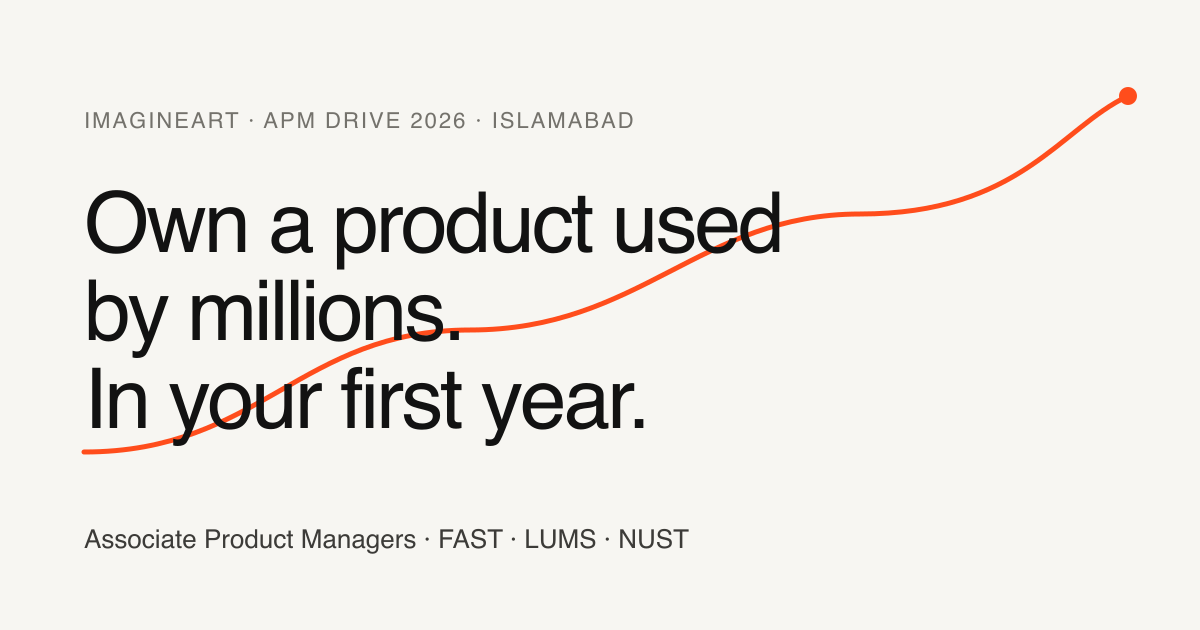
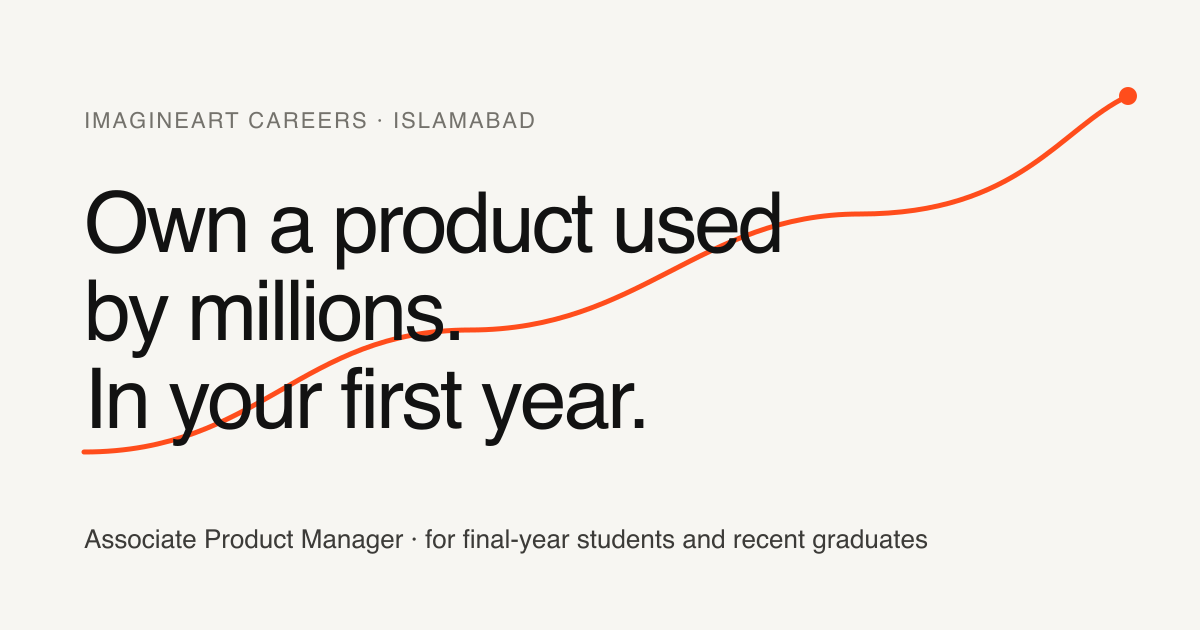
Remove decorative chips and internal hiring details from candidate copy
Drop the prompt pill, badges and campus pills. Remove target universities,
batch/drive wording, internal screeners, titles and team levels.

Changed region(s): [[0.3392, 0.8143, 0.7708, 0.8746], [0.2158, 0.181, 0.5242, 0.2111]]

diff --git a/lib/data/copy.ts b/lib/data/copy.ts
@@ -1,26 +1,25 @@
 /** All user-facing words for the page, in one place. Facts with sources live in facts.ts. */
 export const HERO = {
-  prompt: "an associate product manager at ImagineArt, first year",
   h1a: "Own a product used by millions.",
   h1b: "In your first year.",
-  sub: "ImagineArt is hiring a batch of Associate Product Managers in Islamabad. Fresh graduates and people up to a year out, from FAST, LUMS and NUST. You will own a surface, ship it to real users, and be judged on what happens next.",
-  primary: "Apply for the drive",
-  secondary: "How the drive works",
+  sub: "ImagineArt is hiring Associate Product Managers in Islamabad, for final-year students and recent graduates. You will own part of the product, ship it to real users, and be judged on what happens next.",
+  primary: "Apply now",
+  secondary: "How hiring works",
   imageAlt: "A frame generated with ImagineArt",
-  madeWith: "Made with ImagineArt",
+  madeWith: "Made with ImagineArt, from the imagine.art homepage.",
 };
 
 export const SHIP = {
   eyebrow: "What you'll ship",
   title: "Eight products, one workspace. Pick the one you want to own.",
-  body: "Every tile below is a live product with real users on the other side, and every frame on it was made with ImagineArt. An APM here is handed a piece of one of them, not a slide deck about it.",
+  body: "Every tile below is a live product with real users on the other side, and every frame on it was made with ImagineArt. You will be handed a piece of one of them, not a slide deck about it.",
 };
 
 export const LADDER = [
   { title: "Associate Product Manager", own: "A surface or a feature, end to end. You write the spec, the copy and the launch note. You ship weekly and you read what happened.", years: "Year 1" },
   { title: "Product Manager", own: "A product line with a roadmap, a small team of engineers and a designer who sits next to you.", years: "Years 2–3" },
   { title: "Senior Product Manager", own: "A business line with a number attached to it, and more than one squad shipping against it.", years: "Years 3–5" },
-  { title: "Group Product Manager", own: "A whole product area across ImagineArt Web. You hire and grow the PMs who own the lines.", years: "Year 5+" },
+  { title: "Group Product Manager", own: "A whole product area. You hire and grow the PMs who own the lines.", years: "Year 5+" },
 ];
 
 export const SCOPE = [
@@ -40,37 +39,21 @@ export const HOW = {
     { n: "03", t: "Ship, then learn.", b: "Small releases, real users, fast iteration. The product changes every week and you will be one of the reasons." },
     { n: "04", t: "Design sits next to you.", b: "PMs and designers pair from the first sketch. No hand-offs, no ticket queues between you." },
     { n: "05", t: "Numbers are the story.", b: "Activation, retention, revenue. You will read them, and you will be asked what you did about them." },
-    { n: "06", t: "No layers.", b: "You talk to the Group PM and the founders directly. If something needs deciding, it gets decided." },
+    { n: "06", t: "No layers.", b: "You talk to product leadership and the founders directly. If something needs deciding, it gets decided." },
   ],
 };
 
 export const TEAM = {
   eyebrow: "Who you'll work with",
-  title: "The product team.",
-  body: "You will work directly with the PMs and designers below, in the same room. The names are real; the titles are current.",
+  title: "The product and design team.",
+  body: "You will work directly with these people, in the same room.",
   groups: [
     { label: "Product", people: [
-      { name: "Saad Ahmed", role: "Group Product Manager, ImagineArt Web" },
-      { name: "Ali Ayub Khan", role: "Senior Product Manager" },
-      { name: "Muhammad Usama", role: "Product Manager, ImagineArt Web" },
-      { name: "Saif ur Rehman", role: "Product Manager, ImagineArt Web" },
-      { name: "Mehdi", role: "Product Growth" },
-    ]},
-    { label: "Associate PMs", people: [
-      { name: "Muhammad Muzammil", role: "Associate Product Manager" },
-      { name: "Ashad Qureshi", role: "Associate Product Manager" },
-      { name: "Raamiz Khan Niazi", role: "Associate Product Manager" },
-      { name: "Ahmed Hassan", role: "Associate Product Manager" },
-      { name: "Hussain Asjad Abbas", role: "Associate Product Manager" },
-      { name: "Taha Abid", role: "Assistant Product Manager" },
+      "Saad Ahmed", "Ali Ayub Khan", "Muhammad Usama", "Saif ur Rehman", "Mehdi",
+      "Muhammad Muzammil", "Ashad Qureshi", "Raamiz Khan Niazi", "Ahmed Hassan", "Hussain Asjad Abbas", "Taha Abid",
     ]},
     { label: "Design", people: [
-      { name: "Aizaz Ahmad", role: "Senior Product Designer" },
-      { name: "Hamza Jamal", role: "Product Designer" },
-      { name: "Tayyab Abbas", role: "Product Designer" },
-      { name: "Khadija Umer", role: "Product Designer" },
-      { name: "Syed Aman", role: "Product Designer" },
-      { name: "Faisal Khan", role: "Creative Director" },
+      "Aizaz Ahmad", "Hamza Jamal", "Tayyab Abbas", "Khadija Umer", "Syed Aman", "Faisal Khan",
     ]},
   ],
 };
@@ -106,42 +89,38 @@ export const FIT = {
 };
 
 export const PROCESS = {
-  eyebrow: "How the drive works",
+  eyebrow: "How hiring works",
   title: "Six steps. No tricks.",
   sla: "You hear back within two weeks of applying, either way.",
   steps: [
     { n: "01", t: "Apply", d: "Five minutes", b: "One form, one link to something you made. No cover letter." },
-    { n: "02", t: "Campus drive", d: "On your campus", b: "FAST Lahore, Islamabad and Karachi, LUMS, and NUST. Meet the team, see the product, ask anything." },
-    { n: "03", t: "Screen with current APMs", d: "30 minutes", b: "The people doing the job a year ahead of you. They ask the questions they wish they had been asked." },
+    { n: "02", t: "Meet us", d: "On campus or on a call", b: "Meet the team, see the product, ask anything." },
+    { n: "03", t: "First interview", d: "30 minutes", b: "A conversation with the product team about what you have built and why you made the choices you made." },
     { n: "04", t: "Product case day", d: "Half a day, in Islamabad", b: "A real problem from the product, worked with a designer at the table. We look at how you think, not how you present." },
-    { n: "05", t: "The room", d: "45 minutes", b: "A conversation with the Group PM and the founders. Come with opinions about ImagineArt." },
+    { n: "05", t: "Final conversation", d: "45 minutes", b: "With product leadership and the founders. Come with opinions about ImagineArt." },
     { n: "06", t: "Offer", d: "Within days", b: "Number, start date, and who you will sit next to." },
   ],
-  campuses: ["FAST Lahore", "FAST Islamabad", "FAST Karachi", "LUMS", "NUST"],
-  datesNote: "Campus dates are announced on this page first.",
+  datesNote: "Campus visit dates will be posted on this page.",
 };
 
 export const APPLY = {
   eyebrow: "Apply",
-  title: "Generate your application.",
-  body: "Fill the prompt. The only thing we read closely is the link.",
+  title: "Apply now.",
+  body: "Five fields and one link. The link is what we read most closely.",
   submit: "Submit application",
-  universities: ["FAST", "LUMS", "NUST", "Other"],
-  cities: ["Lahore", "Islamabad", "Karachi", "Other"],
   years: ["2025", "2026", "2027"],
   success: "Received. You will hear from us within two weeks.",
   failure: "Something went wrong on our side. Email your application to careers@imagine.art.",
 };
 
 export const FAQ = [
-  { q: "Who can apply?", a: "Final-year students and graduates up to one year out. The drive focuses on FAST, LUMS and NUST, but the form is open to anyone in Pakistan who has built something worth showing." },
+  { q: "Who can apply?", a: "Final-year students and graduates up to one year out, from any university, who have built something worth showing." },
   { q: "Is the role in person?", a: "Yes. The product team works from the Islamabad office. This is a job you do in the room." },
-  { q: "What does an Associate Product Manager actually do here?", a: "You are handed a surface of the product and you own it: the spec, the copy, the launch, the numbers afterwards. You work with a designer and engineers directly. There is no layer between you and the users." },
+  { q: "What does the job actually look like?", a: "You are handed a surface of the product and you own it: the spec, the copy, the launch, the numbers afterwards. You work with a designer and engineers directly. There is no layer between you and the users." },
   { q: "What is the compensation?", a: "Great for Islamabad, and we tell you the number in the first conversation rather than at the end." },
-  { q: "What is the San Francisco part?", a: "Vyro has an office in San Francisco. The APMs who ship the most get the chance to work from it and to attend international events with the team. It is earned." },
-  { q: "How long does the process take?", a: "You hear back within two weeks of applying. From campus drive to offer is usually a few weeks." },
+  { q: "What is the San Francisco part?", a: "Vyro has an office in San Francisco. The people who ship the most get the chance to work from it and to attend international events with the team. It is earned." },
+  { q: "How long does the process take?", a: "You hear back within two weeks of applying. From first conversation to offer is usually a few weeks." },
   { q: "Do I need a computer science degree?", a: "No. You need to have built or shipped something, and to be able to explain why you made the choices you made." },
   { q: "Can I use AI to prepare my application?", a: "Yes, and we will ask you how. We build AI products; we would be surprised if you didn't." },
-  { q: "I am not from FAST, LUMS or NUST. Should I still apply?", a: "Yes. The campus drives are where we go looking; the form is open to everyone." },
-  { q: "What happens with my application data?", a: "It is read by the product team for this drive only and is not shared outside the company." },
+  { q: "What happens with my application data?", a: "It is read by the product team for this hiring round only and is not shared outside the company." },
 ];

diff --git a/components/sections/ApplyForm.tsx b/components/sections/ApplyForm.tsx
@@ -37,29 +37,23 @@ export function ApplyForm() {
 
           {state === "ok" ? (
             <div className="rounded-[20px] bg-white border border-line p-8 md:p-10">
-              <div className="chip"><span className="chip-dot" aria-hidden="true" />done</div>
-              <p className="t-h3 mt-5 text-ink m-0">{APPLY.success}</p>
+              <p className="t-h3 text-ink m-0">{APPLY.success}</p>
             </div>
           ) : (
             <form onSubmit={onSubmit} className="rounded-[20px] bg-paper-2/60 border border-line p-5 md:p-8 flex flex-col gap-5">
-              <div className="chip w-max"><span className="chip-dot" aria-hidden="true" />prompt / application</div>
               <div className="grid sm:grid-cols-2 gap-4">
                 <div><label className={label} htmlFor="name">Name</label><input id="name" name="name" required className={field} placeholder="Your name" {...NO_PWD} /></div>
-                <div><label className={label} htmlFor="email">Email</label><input id="email" name="email" type="email" required className={field} placeholder="you@university.edu.pk" {...NO_PWD} /></div>
+                <div><label className={label} htmlFor="email">Email</label><input id="email" name="email" type="email" required className={field} placeholder="you@example.com" {...NO_PWD} /></div>
               </div>
               <div className="grid sm:grid-cols-3 gap-4">
                 <div><label className={label} htmlFor="university">University</label>
-                  <select id="university" name="university" required className={field} defaultValue="">
-                    <option value="" disabled>Choose</option>{APPLY.universities.map((u) => <option key={u} value={u}>{u}</option>)}
-                  </select></div>
+                  <input id="university" name="university" required className={field} placeholder="University" {...NO_PWD} /></div>
                 <div><label className={label} htmlFor="graduation">Graduation</label>
                   <select id="graduation" name="graduation" required className={field} defaultValue="">
                     <option value="" disabled>Year</option>{APPLY.years.map((y) => <option key={y} value={y}>{y}</option>)}
                   </select></div>
                 <div><label className={label} htmlFor="city">City</label>
-                  <select id="city" name="city" required className={field} defaultValue="">
-                    <option value="" disabled>Choose</option>{APPLY.cities.map((c) => <option key={c} value={c}>{c}</option>)}
-                  </select></div>
+                  <input id="city" name="city" required className={field} placeholder="City" {...NO_PWD} /></div>
               </div>
               <div><label className={label} htmlFor="link">A link to something you built or made</label><input id="link" name="link" type="url" required className={field} placeholder="https://" {...NO_PWD} /></div>
               <div><label className={label} htmlFor="shipped">One thing you shipped, in two sentences</label>

diff --git a/components/sections/Hero.tsx b/components/sections/Hero.tsx
@@ -1,24 +1,13 @@
 "use client";
-import { useState } from "react";
-import { Typewriter } from "@/components/motion/Typewriter";
 import { GenerateReveal } from "@/components/motion/GenerateReveal";
 import { HERO } from "@/lib/data/copy";
 import { SITE } from "@/lib/site";
 
 export function Hero({ image, video }: { image: string; video?: string }) {
-  const [typed, setTyped] = useState(false);
   return (
     <section id="top" className="relative z-[1] pt-[132px] md:pt-[168px] pb-10 md:pb-16">
       <div className="container-page">
-        <div className="chip" aria-label="Prompt">
-          <span className="chip-dot" aria-hidden="true" />
-          <span className="normal-case tracking-normal text-[12px] md:text-[13px]">
-            <span className="text-ink-4">prompt / </span>
-            <Typewriter text={HERO.prompt} startDelay={420} onDone={() => setTyped(true)} />
-          </span>
-        </div>
-
-        <h1 className="t-display mt-7 md:mt-9 max-w-[14ch] text-ink">
+        <h1 className="t-display max-w-[14ch] text-ink">
           <span className="block">{HERO.h1a}</span>
           <span className="block relative">
             {HERO.h1b}
@@ -42,15 +31,13 @@ export function Hero({ image, video }: { image: string; video?: string }) {
             focusX={0.72}
             alt={HERO.imageAlt}
             trigger="now"
-            start={typed}
+            start
             priority
             duration={1700}
             className="w-full aspect-[4/5] sm:aspect-[16/9] md:aspect-[21/9] rounded-[20px] md:rounded-[28px] bg-paper-2"
           />
           <div className="grain rounded-[20px] md:rounded-[28px]" aria-hidden="true" />
-          <span className="chip absolute left-4 bottom-4 md:left-6 md:bottom-6 bg-paper/80 backdrop-blur">
-            <span className="chip-dot" aria-hidden="true" />{HERO.madeWith}
-          </span>
+          <p className="mt-3 text-[13px] text-ink-3 m-0">{HERO.madeWith}</p>
           <span data-line="hero-frame" data-line-x="left" data-line-y="bottom" className="absolute left-[8px] md:left-[10px] bottom-0 w-1 h-1" aria-hidden="true" />
         </div>
       </div>

diff --git a/app/globals.css b/app/globals.css
@@ -73,14 +73,6 @@
   .t-mono { font-family: var(--font-mono); font-size: 12px; letter-spacing: 0.04em; text-transform: uppercase; }
   .t-num { font-variant-numeric: tabular-nums; font-feature-settings: "tnum" 1; }
 
-  .chip {
-    display: inline-flex; align-items: center; gap: 8px;
-    padding: 6px 10px; border-radius: 999px;
-    border: 1px solid var(--color-line-2); background: rgb(255 255 255 / 0.6);
-    font-family: var(--font-mono); font-size: 11px; letter-spacing: 0.06em; text-transform: uppercase;
-    color: var(--color-ink-2);
-  }
-  .chip-dot { width: 6px; height: 6px; border-radius: 999px; background: var(--color-signal); }
 
   .hairline { border-top: 1px solid var(--color-line); }
 
@@ -119,9 +111,6 @@
 
 @keyframes marquee { from { transform: translateX(0); } to { transform: translateX(-50%); } }
 @keyframes mobileMenuIn { from { opacity: 0; transform: translateY(-10px); } to { opacity: 1; transform: translateY(0); } }
-@keyframes caret { 0%, 49% { opacity: 1; } 50%, 100% { opacity: 0; } }
-.caret { display: inline-block; width: 2px; height: 1em; background: var(--color-ink); margin-left: 2px; vertical-align: -0.15em; animation: caret 1s steps(1) infinite; }
-@media (prefers-reduced-motion: reduce) { .caret { animation: none; } }
 
 /* The line itself */
 .line-svg { position: absolute; inset: 0; width: 100%; height: 100%; pointer-events: none; z-index: 0; overflow: visible; }

diff --git a/components/sections/Team.tsx b/components/sections/Team.tsx
@@ -11,16 +11,15 @@ export function Team() {
           <h2 className="t-h2 mt-4 text-ink">{TEAM.title}</h2>
           <p className="t-lead mt-5 max-w-[56ch] text-ink-2">{TEAM.body}</p>
         </Reveal>
-        <div className="mt-10 md:mt-14 grid md:grid-cols-3 gap-x-10 gap-y-10">
+        <div className="mt-10 md:mt-14 grid md:grid-cols-[2fr_1fr] gap-x-10 gap-y-10">
           {TEAM.groups.map((gp) => (
             <div key={gp.label}>
               <div className="t-mono text-ink-3 pb-3 hairline border-t-0 border-b border-line">{gp.label}</div>
-              <ul className="list-none m-0 p-0">
-                {gp.people.map((p, i) => (
-                  <li key={p.name} className="hairline first:border-t-0 py-4">
+              <ul className={`list-none m-0 p-0 grid ${gp.people.length > 6 ? "sm:grid-cols-2 gap-x-10" : ""}`}>
+                {gp.people.map((name, i) => (
+                  <li key={name} className="hairline border-t-0 border-b border-line py-4">
                     <Reveal delay={i * 30}>
-                      <div className="font-medium text-[17px] leading-[1.25] text-ink">{p.name}</div>
-                      <div className="mt-0.5 text-[13.5px] leading-[1.4] text-ink-3">{p.role}</div>
+                      <div className="font-medium text-[17px] leading-[1.25] text-ink">{name}</div>
                     </Reveal>
                   </li>
                 ))}

diff --git a/components/SiteNav.tsx b/components/SiteNav.tsx
@@ -9,7 +9,7 @@ function Wordmark() {
       <img src="/assets/imagine-logo.svg" alt="ImagineArt" className="w-[26px] h-[26px] rounded-[8px] shrink-0" />
       <span className="font-display font-semibold text-[19px] tracking-[-0.4px] text-ink">ImagineArt</span>
       <span aria-hidden="true" className="w-px h-[18px] bg-line-2" />
-      <span className="font-display font-medium text-[17px] tracking-[-0.3px] text-ink-3">APM Drive</span>
+      <span className="font-display font-medium text-[17px] tracking-[-0.3px] text-ink-3">Careers</span>
     </span>
   );
 }
@@ -47,7 +47,7 @@ export function SiteNav() {
             transition: "max-width 0.48s cubic-bezier(0.22,1,0.36,1), padding 0.48s cubic-bezier(0.22,1,0.36,1), background 0.48s cubic-bezier(0.22,1,0.36,1), box-shadow 0.48s cubic-bezier(0.22,1,0.36,1), border-color 0.48s",
           }}
         >
-          <a href="#top" className="inline-flex items-center shrink-0" aria-label="ImagineArt APM Drive, back to top">
+          <a href="#top" className="inline-flex items-center shrink-0" aria-label="ImagineArt Careers, back to top">
             <Wordmark />
           </a>
 

diff --git a/lib/site.ts b/lib/site.ts
@@ -1,8 +1,8 @@
 /** Single source of truth for URLs and identity strings. */
 export const SITE = {
-  title: "APM Drive 2026 | ImagineArt",
+  title: "Associate Product Manager | ImagineArt Careers",
   description:
-    "ImagineArt is hiring a batch of Associate Product Managers in Islamabad. Fresh graduates and people within a year of graduating, from FAST, LUMS and NUST. Own a product used by millions in your first year.",
+    "ImagineArt is hiring Associate Product Managers in Islamabad, for final-year students and recent graduates. Own a product used by millions in your first year.",
   // TODO(deploy): replace with the production host once the domain is decided.
   url: "https://apm-drive-site.vercel.app",
   imagineArt: "https://www.imagine.art",

diff --git a/components/sections/Process.tsx b/components/sections/Process.tsx
@@ -25,10 +25,9 @@ export function Process() {
             </li>
           ))}
         </ol>
-        <div className="mt-10 md:mt-14 flex flex-wrap items-center gap-2">
-          {PROCESS.campuses.map((c) => (<span key={c} className="chip">{c}</span>))}
-          <span className="text-[13px] text-ink-3 ml-1">{PROCESS.datesNote}</span>
-        </div>
+        <p className="mt-10 md:mt-14 text-[15px] leading-[1.5] text-ink-2 m-0 max-w-[60ch]">
+          {PROCESS.datesNote}
+        </p>
       </div>
     </section>
   );

diff --git a/app/api/apply/route.ts b/app/api/apply/route.ts
@@ -33,7 +33,7 @@ export async function POST(req: Request) {
   const webhook = process.env.APPLY_WEBHOOK_URL;
   if (webhook) {
     const text = [
-      `*APM drive application* — ${app.name} (${app.university}, ${app.graduation}, ${app.city})`,
+      `*APM application* — ${app.name} (${app.university}, ${app.graduation}, ${app.city})`,
       `Email: ${app.email}${app.handle ? ` · ${app.handle}` : ""}`,
       `Link: ${app.link}`,
       `Shipped: ${app.shipped}`,

diff --git a/README.md b/README.md
@@ -47,7 +47,7 @@ Rules from the kit's `references/claims.md` apply. Specifically on this page:
 1. **Compensation.** The page says "we say the number in the first conversation". Confirm that is the policy, or replace with a band.
 2. **The SF opportunity.** The page says it is a chance, earned, not scheduled. Confirm the actual terms.
 3. **In-person.** The page says the product team works from the Islamabad office and the role is in person. Confirm.
-4. **Process and the two-week promise.** Steps and durations in `PROCESS` are a proposal: apply → campus drive → APM screen (30 min) → product case day (half day, Islamabad) → Group PM + founders (45 min) → offer. Confirm, and confirm the team will honour "you hear back within two weeks".
+4. **Process and the two-week promise.** Steps and durations in `PROCESS` are a proposal: apply → meet us (campus or call) → first interview (30 min) → product case day (half day, Islamabad) → final conversation with product leadership and founders (45 min) → offer. Confirm, and confirm the team will honour "you hear back within two weeks".
 5. **Ladder definitions and the six "how product works" lines.** Written to reflect the org as observed; Saad should edit.
 6. **Campus dates.** `PROCESS.datesNote` promises dates on this page first. Add them when set.
 7. **Application delivery.** Set `APPLY_WEBHOOK_URL` (Slack incoming webhook to a channel such as `#apm-applications`) or provision Vercel Blob. Until one is set the form returns a 503 and shows the failure line.
@@ -65,3 +65,7 @@ pnpm build
 ```
 
 Verification done on 2026-09-25: scrolling screenshots at 1440 and 390, zero broken images, no console errors, production build clean.
+
+## Candidate-facing copy rule
+
+The page is public. It never names target universities or cities, never says "batch" or "drive", never names internal screeners or internal titles, and never describes internal sourcing. The team section lists names only, grouped Product and Design. The role title appears once in the hero and once on the career curve.
